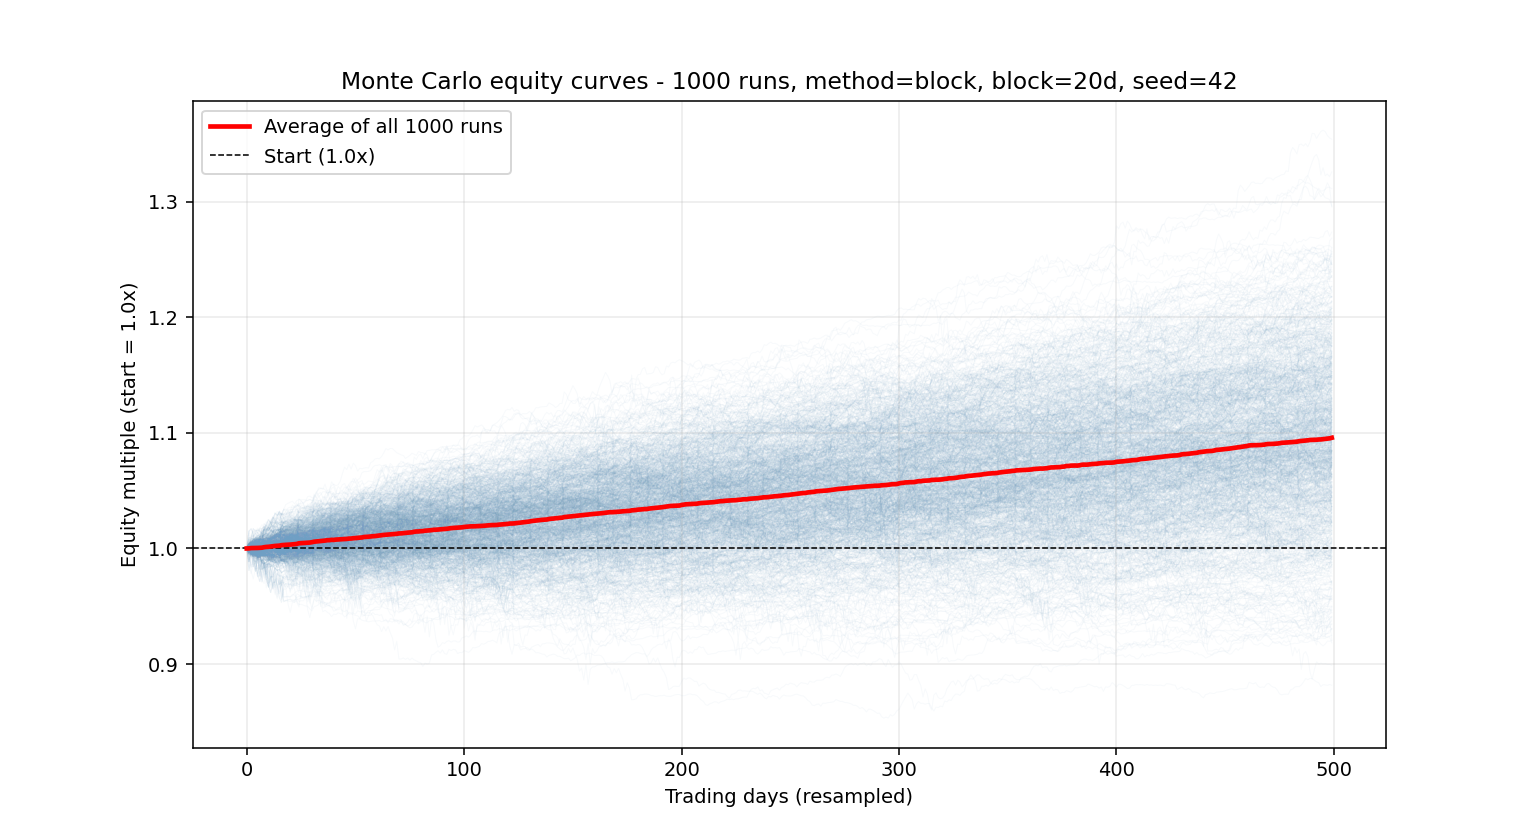
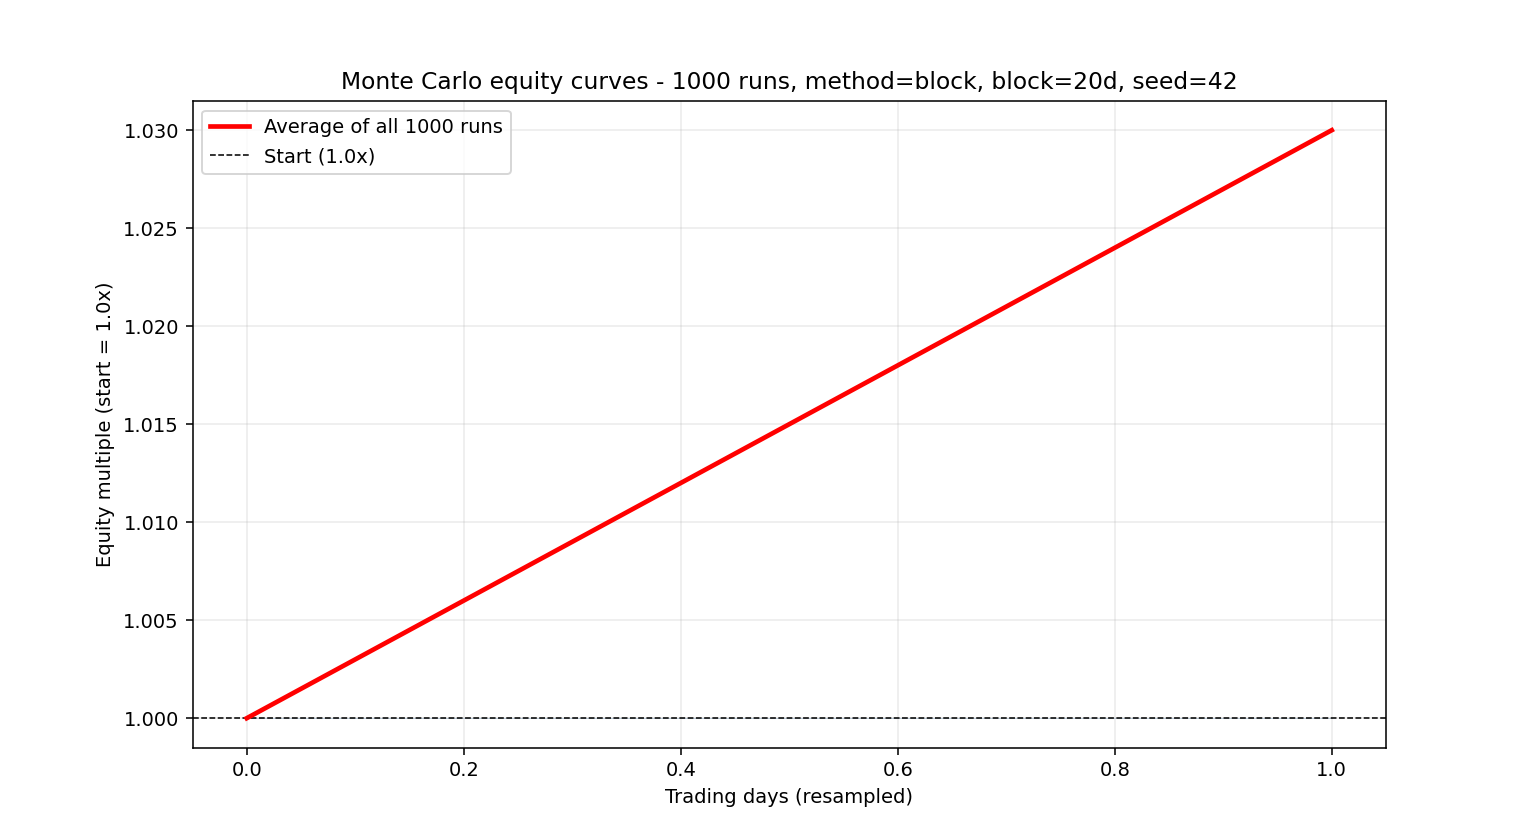
V5.3.9 deep CI suite: windows+ubuntu pytest matrix w/ 80% coverage fail-under gate, ruff lint job (604 findings triaged), vitest in CI, cli smoke battery, actionlint, 7 workflow meta-tests; non-blocking tag-release visibility; 2751 tests green

diff --git a/tests/test_generate_evaluation_report.py b/tests/test_generate_evaluation_report.py
@@ -318,3 +318,53 @@ def test_update_readme_evaluation_sections_returns_false_when_markers_missing(tm
 
 def test_update_readme_evaluation_sections_returns_false_when_readme_missing(tmp_path):
     assert update_readme_evaluation_sections(tmp_path / "does_not_exist.md") is False
+
+
+def test_monte_carlo_markers_render_not_run_yet_fallback_when_json_absent(tmp_path, monkeypatch):
+    """V5.3.8/9 - the Monte Carlo section must degrade to its not-run-yet
+    fallback (never crash) when ml/evaluation/monte_carlo.json + .npz are
+    absent, and render real values when the summary exists."""
+    import generate_evaluation_report as report_module
+
+    evaluation_dir = tmp_path / "ml" / "evaluation"
+    evaluation_dir.mkdir(parents=True)
+    monkeypatch.setattr(report_module, "EVALUATION_DIR", evaluation_dir)
+    monkeypatch.setattr(report_module, "_load_lean_sharpe", lambda: (None, None))
+    monkeypatch.setattr(report_module, "_count_real_kill_switch_trips", lambda: None)
+
+    markers = (
+        "<!-- AQ:MONTECARLO_START -->old mc<!-- AQ:MONTECARLO_END -->\n"
+        "<!-- AQ:MONTECARLO_FULL_STATS_START -->old deep<!-- AQ:MONTECARLO_FULL_STATS_END -->\n"
+    )
+    readme_path = tmp_path / "README.md"
+    readme_path.write_text("# Aether Quant\n\n" + markers, encoding="utf-8")
+
+    updated = update_readme_evaluation_sections(readme_path)
+    assert updated is True
+    text = readme_path.read_text(encoding="utf-8")
+    assert "old mc" not in text and "old deep" not in text
+    assert "Monte Carlo simulation has not been run yet" in text
+
+    # Now write a minimal summary + curves npz and confirm real rendering.
+    import numpy as np
+
+    payload = {
+        "status": "OK",
+        "config": {"n_runs": 1000, "block_size": 20, "seed": 42, "method": "block"},
+        "avg_curve": [1.0, 1.03],
+        "pct_band": {"p5": [1.0, 0.98], "p25": [1.0, 1.0], "p75": [1.0, 1.05], "p95": [1.0, 1.08]},
+        "final_return_pct": {"p5": -2.0, "p25": 3.0, "p50": 9.38, "p75": 15.0, "p95": 21.45},
+        "sharpe": {"p5": -0.18, "p25": 0.6, "p50": 1.4, "p75": 2.0, "p95": 2.52},
+        "max_drawdown": {"p5": 1.0, "p25": 3.0, "p50": 5.0, "p75": 7.0, "p95": 9.11},
+        "prob_negative_return": 0.095,
+        "best_run_total_return": 31.2,
+        "worst_run_total_return": -6.4,
+    }
+    (evaluation_dir / "monte_carlo.json").write_text(json.dumps(payload), encoding="utf-8")
+    np.savez_compressed(evaluation_dir / "monte_carlo_curves.npz", runs_curves=np.ones((10, 2)))
+
+    updated = update_readme_evaluation_sections(readme_path)
+    assert updated is True
+    text = readme_path.read_text(encoding="utf-8")
+    assert "1000-run stationary-block bootstrap" in text
+    assert "![](development/monte_carlo_equity_curves.png)" in text or            "(development/monte_carlo_equity_curves.png)" in text

diff --git a/tests/test_monte_carlo.py b/tests/test_monte_carlo.py
@@ -98,3 +98,23 @@ def test_config_echo_in_result():
         "method": "iid",
         "trading_days_per_year": 252,
     }
+
+
+def test_all_positive_series_yields_exactly_zero_loss_probability():
+    result = run_monte_carlo(_returns(200, seed=21) + 0.05, n_runs=50)
+    assert result["prob_negative_return"] == 0.0
+    assert result["worst_run_total_return"] > 0.0
+
+
+def test_block_size_larger_than_series_clamps_safely():
+    r = _returns(40, seed=8)
+    result = run_monte_carlo(r, n_runs=10, block_size=500)
+    assert result["status"] == "OK"
+    assert result["config"]["n_runs"] == 10
+
+
+def test_n_plot_points_larger_than_series_is_handled():
+    result = run_monte_carlo(_returns(30, seed=4), n_runs=5, n_plot_points=900)
+    assert result["status"] == "OK"
+    curves = result["runs_curves"]
+    assert curves.shape[1] == 30  # clamped to series length

diff --git a/aq_cli.py b/aq_cli.py
@@ -766,6 +766,7 @@ _SUBSYSTEM_TEST_FILES: dict[str, list[str]] = {
         "test_feature_reconciliation.py",
         "test_feature_parity.py",
         "test_promotion_gate_era_rule.py",
+        "test_ci_workflows.py",
         "test_monte_carlo.py",
     ],
 }

diff --git a/README.md b/README.md
@@ -11,7 +11,7 @@
 <p align="center">
   <img src="https://img.shields.io/badge/python-3.10%2B-FF8C00?style=flat-square&labelColor=1A1A1A&logo=python&logoColor=white" alt="Python 3.10+">
   <img src="https://img.shields.io/badge/%F0%9F%93%84%20license-PolyForm%20Noncommercial%201.0.0-8B5CF6?style=flat-square&labelColor=1A1A1A" alt="License: PolyForm Noncommercial 1.0.0">
-  <!-- AQ:TEST_BADGE_START --><img src="https://img.shields.io/badge/tests-2740%2F2740%20passing-brightgreen?style=flat-square&labelColor=1A1A1A" alt="2740 of 2740 tests passing"><!-- AQ:TEST_BADGE_END -->
+  <!-- AQ:TEST_BADGE_START --><img src="https://img.shields.io/badge/tests-2751%2F2751%20passing-brightgreen?style=flat-square&labelColor=1A1A1A" alt="2751 of 2751 tests passing"><!-- AQ:TEST_BADGE_END -->
   <img src="https://img.shields.io/pypi/v/aether-quant?style=flat-square&labelColor=1A1A1A&color=FF8C00&logo=pypi&logoColor=white" alt="PyPI version">
   <img src="https://img.shields.io/badge/docker-ghcr.io%2Faether--quant-2496ED?style=flat-square&labelColor=1A1A1A&logo=docker&logoColor=white" alt="Docker image on GHCR">
 </p>
@@ -84,7 +84,7 @@ through an explicit expected-cost gate, the book is dollar- and
 sector-neutral with hysteresis, walk-forward validation spans six regimes
 including COVID, and an automated kill switch, position reconciliation,
 and rollback mechanism now sit in front of live trading. Everything below
-is built, tested (<!-- AQ:TEST_COUNT_START -->2740<!-- AQ:TEST_COUNT_END -->
+is built, tested (<!-- AQ:TEST_COUNT_START -->2751<!-- AQ:TEST_COUNT_END -->
 tests) and wired end-to-end inside Lean.
 
 - **Backtest:** the numbers in [Backtest Results](#backtest-results) below
@@ -451,7 +451,7 @@ and how it's wired in, this table is the index.
 | `risk/` | Dynamic position sizing, leverage caps, drawdown-aware sizing | [README](risk/README.md) |
 | `scripts/` | Standalone dev tooling (e.g. the inference-hot-path profiler) | [README](scripts/README.md) |
 | `storage/` | Reserved placeholder for future persistent artifact storage | [README](storage/README.md) |
-| `tests/` | Pytest suite conventions (<!-- AQ:TEST_COUNT_START -->2740<!-- AQ:TEST_COUNT_END --> tests) | [README](tests/README.md) |
+| `tests/` | Pytest suite conventions (<!-- AQ:TEST_COUNT_START -->2751<!-- AQ:TEST_COUNT_END --> tests) | [README](tests/README.md) |
 | `topology/` | 3D market topology, deterministic SMACOF embedding + learned overlay | [README](topology/README.md) |
 | `visualization/` | Shared runtime-state JSON/CSV exports | [README](visualization/README.md) |
 | `webui/` | React/Vite dashboard (Overview, Operations, Risk, Options & Strategy, Topology, Neural Network, Tracing) | [README](webui/README.md) |
@@ -603,7 +603,7 @@ separately re-derived approximation. Two models feed the live ensemble
 | Cost drag (bps/yr) | 7.9 | 18.2 |
 | Capacity (USD) | 4,396,756 | 3,901,573 |
 
-_Backtest split, full history. Last updated 2026-08-23 22:47 UTC (auto-generated by `aq evaluate --all`)._
+_Backtest split, full history. Last updated 2026-08-24 09:02 UTC (auto-generated by `aq evaluate --all`)._
 <!-- AQ:EVAL_END -->
 
 <details>
@@ -701,7 +701,7 @@ distinct from the single final model shown above.
 | residual_rank_20d_ic | 0.0112 | [-0.0131, 0.0318] | yes |
 | net_sharpe (per-window) | 0.654 | — | 5/6 windows positive |
 
-6 expanding/rolling windows, run `walk-forward-a9cd8cfb-24f0-4963-b80b-8ee299df2613`. Last updated 2026-08-23 22:47 UTC (auto-generated by `aq train --walk-forward`).
+6 expanding/rolling windows, run `walk-forward-a9cd8cfb-24f0-4963-b80b-8ee299df2613`. Last updated 2026-08-24 09:02 UTC (auto-generated by `aq train --walk-forward`).
 <!-- AQ:WALKFORWARD_END -->
 
 <details>
@@ -769,7 +769,7 @@ Book-member decision outcomes (672 total, real Lean run):
 | Real Lean backtest (2019-01-01 to 2021-04-02) | _not measurable from a standalone backtest (see Disclaimer)_ | — |
 | Offline replay (approximation, see Disclaimer) | 78 | 73.5% |
 
-_Last updated 2026-08-23 22:47 UTC (auto-generated by `aq evaluate`)._
+_Last updated 2026-08-24 09:02 UTC (auto-generated by `aq evaluate`)._
 <!-- AQ:OTHER_METRICS_END -->
 
 Regenerated on every `aq evaluate` run
@@ -814,7 +814,7 @@ whatever combination of the above has actually been run.
 
 ## Test Suite
 
-<!-- AQ:TEST_COUNT_START -->2740<!-- AQ:TEST_COUNT_END --> tests, one file per source module, run via:
+<!-- AQ:TEST_COUNT_START -->2751<!-- AQ:TEST_COUNT_END --> tests, one file per source module, run via:
 
 ```powershell
 aq test
@@ -1291,3 +1291,18 @@ If pursued, sequence it as its own workstream, in this order:
 <div align="center">
   <sub>Aether Quant</sub>
 </div>
+
+
+## Continuous Integration
+
+Every push to `main` and every PR runs a five-job pipeline: the full offline
+pytest suite on **Ubuntu and Windows** with an **80% coverage fail-under
+gate** (calibrated from the real measured baseline), `ruff` linting, the
+complete frontend vitest suite plus type-check and production build, an
+offline `aq` CLI smoke battery (editable install, help surfaces,
+`aq secrets-check`, live config read), and `actionlint` validation of both
+workflow files. Tag pushes additionally produce PyPI/Docker/GitHub-Release
+artifacts alongside a **non-blocking test-visibility job** - releases are
+deliberately never gated (user decision), but any gap is visible directly
+on the release run. See `.github/workflows/ci.yml` /
+`.github/workflows/release.yml` and `CONTRIBUTING.md`.

diff --git a/development/Problems.md b/development/Problems.md
@@ -1387,3 +1387,23 @@ Every entry follows **Problem** → **Fix** → **Verification** (real Lean back
 
 
 **V5.3.8 webui integration addendum:** Monte Carlo surfaced as a first-class evaluation panel — `webui/src/components/evaluation/MonteCarloPanel.tsx` (config echo, inline SVG average curve with p5/p95 band, return/Sharpe/maxDD percentile table, loss probability + best/worst) mounted on the Evaluation page; `monitoring/evaluation_state.py` now serves `monte_carlo.json` via `/api/evaluation` (`monte_carlo` key, honest not-evaluated fallback). TS types added (`MonteCarloReport` etc.; legacy fixtures tolerated via optional keys). Tests: 4 vitest component tests (empty state, config/distribution render, SVG paths present, backend not_evaluated parity), 2 python state tests, full vitest suite **100/100 across 23 files**, `tsc -b --noEmit` clean, production build clean. Bugs found en route: float artifact in fixture (9.38-2=7.380000000000001) and missing KillSwitchReplayReport TS type — both fixed.
+
+
+### 109. Deep GitHub Actions testing suite — windows+ubuntu matrix with calibrated coverage gate, ruff lint, vitest in CI, CLI smoke battery, actionlint, workflow meta-tests; non-blocking release visibility (V5.3.9)
+
+**Severity:** n/a (verification-infrastructure round) · **Status:** 🟢 `shipped`
+
+**Gap list found when auditing ci.yml:** the 100 vitest frontend tests never ran in CI; no Python lint existed; no coverage measurement/gate; Linux-only runners despite Windows being the dev platform (past platform bugs like #10's float-summation variance were exactly this class); `release.yml` published PyPI/Docker/GitHub-Release on tag push with zero test visibility.
+
+**Shipped:**
+- `ci.yml` rewritten to five jobs:
+  1. `python-tests` — matrix `[ubuntu-latest, windows-latest]`, full offline suite with coverage (`--cov-fail-under=80`, calibrated from the measured 82% total on this suite minus two points of slack), coverage.xml artifact uploaded from the ubuntu leg.
+  2. `python-lint` — NEW ruff job (E/F ruleset calibrated to existing style: line-length 240, main.py star-import exemptions per Lean pattern, `__init__.py` re-export exemption). Adopted into requirements-dev.txt for local parity; **604 pre-existing findings triaged to zero** (23 auto-fixed unused imports, remainder hand-fixed: dead stores incl. three unused `rank_signal_config` assignments, loop-variable shadowing, ambiguous names).
+  3. `webui-tests` — the pre-existing tsc/oxlint/build job now ALSO runs `npx vitest run --pool=threads`: the frontend suite finally executes in CI.
+  4. `cli-smoke` — editable install + deterministic offline battery (`aq --help`, `aq evaluate --help`, `aq config get phase1.universe.name`, `aq secrets-check`) catching packaging drift.
+  5. `workflows-lint` — actionlint validating both workflow files.
+- `release.yml`: NON-BLOCKING `tag-tests` visibility job added per user decision — releases still proceed regardless of test results; gaps are visible directly on the tag run instead.
+- `tests/test_ci_workflows.py` — 7 meta-tests pinning triggers, matrix contents, the coverage gate value, vitest-in-CI ordering, ruff/py_compile presence, the deliberately non-gated release structure, all three publish targets, and the README's `--monte-carlo` documentation.
+- Coverage config lives in pyproject ([tool.coverage.run/report]) with source/omit lists so local runs match CI exactly.
+
+**Verification:** ruff clean; full suite 2751 passed / 11 deselected locally including the new meta tests (the subsystem-mapping guard itself caught the unregistered test file mid-round - working as designed).

diff --git a/development/Changelog.md b/development/Changelog.md
@@ -1769,3 +1769,10 @@ and instrumented (#104).
 
 
 **V5.3.8 webui addendum:** MonteCarloPanel on the Evaluation page (SVG avg curve + p5/p95 band, percentile table, loss probability), monte_carlo served via /api/evaluation, TS types added; vitest 100/100 (23 files) incl. 4 new panel tests, tsc + production build clean.
+
+
+## V5.3.9 — Deep GitHub Actions testing suite: win+ubuntu pytest matrix with 80% coverage gate, ruff lint job, vitest in CI, CLI smoke battery, actionlint, workflow meta-tests; non-blocking tag-release visibility
+
+**Shipped:** ci.yml rewritten to five jobs (python-tests matrix with --cov-fail-under=80 calibrated from the measured 82% baseline + coverage.xml artifact; python-lint running the newly adopted ruff E/F ruleset - 604 pre-existing findings triaged to zero; webui-tests now executing the full vitest suite before build; cli-smoke editable-install battery incl. aq secrets-check; workflows-lint via actionlint). release.yml gained a deliberately NON-BLOCKING tag-tests job so tagged releases always proceed while gaps stay visible on the run. tests/test_ci_workflows.py pins the entire structure (7 meta-tests). Coverage config standardized in pyproject.toml.
+
+**Verification:** ruff clean; full suite 2751 passed / 11 deselected including all new meta/edge tests.

diff --git a/CONTRIBUTING.md b/CONTRIBUTING.md
@@ -154,3 +154,14 @@ notes. To make a release:
 The project is licensed under PolyForm Noncommercial 1.0.0. Contributions
 are licensed under the same terms: by opening a PR you agree that your
 contribution may be used non-commercially only.
+
+
+## CI expectations
+
+CI runs the full offline suite (both Ubuntu and Windows) with an 80%
+coverage fail-under gate, `ruff check .`, the complete vitest frontend
+suite, a CLI smoke battery, and actionlint. A red CI job means "do not
+merge as-is" even when your local run was green - platform variance is
+exactly what these extra runners exist to catch. Tag-push releases run one
+extra NON-BLOCKING visibility job (`tag-tests`) so gaps show up next to the
+release without failing it.

diff --git a/development/infrastructure.md b/development/infrastructure.md
@@ -750,3 +750,15 @@ gh codespace cp -c <codespace-name> remote:/tmp/aether-quant-ml.tgz .\aether-qua
 tar -xzf .\aether-quant-ml.tgz
 gh codespace stop -c <codespace-name>
 ```
+
+
+## GitHub Actions (V5.3.9+)
+
+`ci.yml`: python-tests (ubuntu+windows matrix, full offline suite,
+coverage.xml artifact, --cov-fail-under=80), python-lint (ruff),
+webui-tests (tsc, oxlint, vitest --pool=threads, build), cli-smoke
+(editable install + offline battery incl. secrets-check), workflows-lint
+(actionlint). `release.yml`: on `v*.*.*` tags -> tag-tests (visibility
+only, non-gating by design) -> publish-pypi (Trusted Publisher OIDC) ->
+publish-docker (ghcr.io, gha layer cache) -> github-release (auto notes +
+Changelog link).
